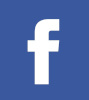
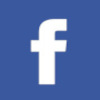
corrigido imagem face

diff --git a/estilos/style.css b/estilos/style.css
@@ -65,7 +65,7 @@ section.imagem > div {
 }
 
 section#social > a > img {
-    border-radius: 50px;
+    border-radius: 50%;
     width: 80px;
     margin-right: 20px;
 }
